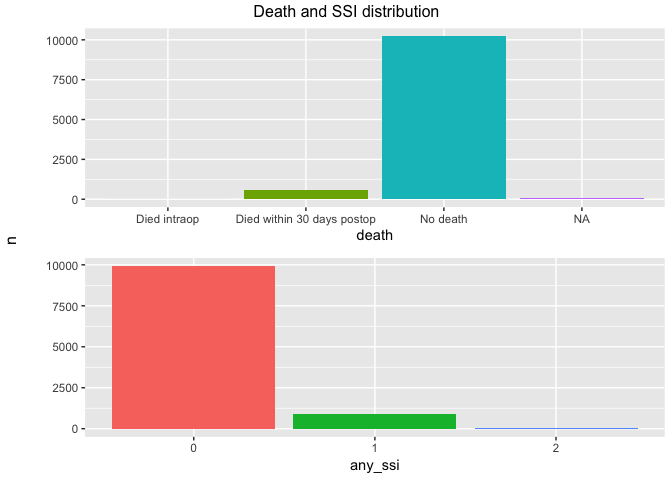
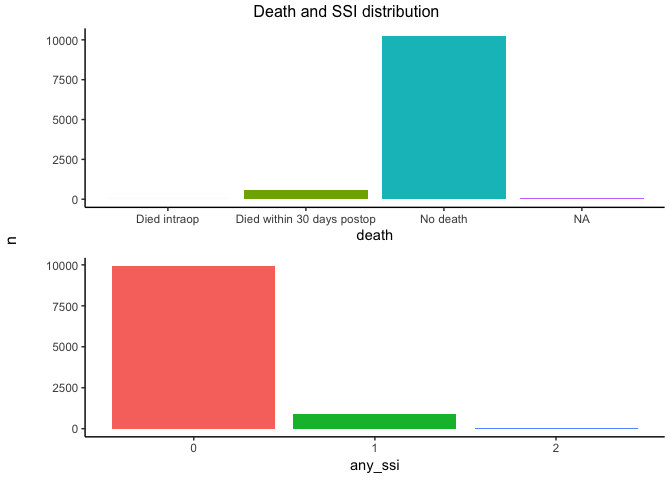
heatmaps

diff --git a/tiff_subanalysis.md b/tiff_subanalysis.md
@@ -49,7 +49,7 @@ dist_healthdisease = healthdisease %>%
 
 ggplot(dist_healthdisease, aes(x = condition, y = cases, fill = condition)) +
   geom_bar(stat = "identity") + ggtitle("Pre-operative health conditions") +
-  theme(axis.text.x = element_text(angle = 40, hjust = 1), legend.position = "none")
+  theme_classic() + theme(axis.text.x = element_text(angle = 40, hjust = 1), legend.position="none")
 ```
 
 ![](tiff_subanalysis_files/figure-gfm/unnamed-chunk-2-1.png)<!-- -->
@@ -61,16 +61,14 @@ deathsum = healthdisease %>% group_by(death) %>% summarize(n = n()) %>%
          death = factor(death, levels = c("Died intraop", 
                                           "Died within 30 days postop", "No death", "NA")))
   
-deathplot = ggplot(deathsum, aes(x = death, y = n, fill = death)) + geom_bar(stat = "identity") +
-  theme(legend.position = "none") + labs(y = "") 
+deathplot = ggplot(deathsum, aes(x = death, y = n, fill = death)) + geom_bar(stat = "identity") + guides(fill = FALSE) + labs(y = "") + theme_classic() 
 ```
 
 ``` r
 SSIsum = healthdisease %>% group_by(any_ssi) %>% summarize(n = n()) %>% 
   mutate(any_ssi = as.factor(any_ssi))
 
-SSIplot = ggplot(SSIsum, aes(x = any_ssi, y = n, fill = any_ssi)) + geom_bar(stat = "identity") + 
-  theme(legend.position = "none") + labs(y = "") 
+SSIplot = ggplot(SSIsum, aes(x = any_ssi, y = n, fill = any_ssi)) + geom_bar(stat = "identity") + guides(fill = FALSE) + labs(y = "") + theme_classic() 
 ```
 
 ``` r
@@ -79,4 +77,38 @@ grid.arrange(deathplot, SSIplot, top = "Death and SSI distribution", left = "n")
 
 ![](tiff_subanalysis_files/figure-gfm/unnamed-chunk-5-1.png)<!-- -->
 
-Number of prior conditions associated with surgical approach
+### SSI level and health condition association
+
+``` r
+heatplot1 = healthdisease %>% 
+  select(-postop_ssi_super, -postop_ssi_deep, -postop_ssi_organspace, -death,
+         -surgical_approach) %>% 
+  na.omit() %>% 
+  gather(condition, score, -any_ssi) %>% 
+  group_by(any_ssi, condition) %>% 
+  summarise(score = sum(score))
+
+ggplot(heatplot1, mapping = aes(x = any_ssi, y = condition, fill = score)) + 
+  geom_tile() + scale_fill_gradient2('cases', low = "blue", mid = "white", 
+                                     high = "red", midpoint = 0) + theme_classic() 
+```
+
+![](tiff_subanalysis_files/figure-gfm/unnamed-chunk-6-1.png)<!-- -->
+
+### Death and health condition association
+
+``` r
+heatplot2 = healthdisease %>% 
+  select(-postop_ssi_super, -postop_ssi_deep, -postop_ssi_organspace, 
+         -any_ssi, -surgical_approach) %>%
+  mutate(death = recode(death, `1` = "Died intraop", `2` = "Died within 30 days postop", 
+                   `3` = "No death")) %>% na.omit() %>% 
+  gather(condition, score, -death) %>% group_by(death, condition) %>% 
+  summarise(score = sum(score)) 
+
+ggplot(heatplot2, mapping = aes(x = death, y = condition, fill = score)) + 
+  geom_tile() + scale_fill_gradient2('cases', low = "blue", mid = "white",
+                                     high = "red", midpoint = 0) + theme_classic() 
+```
+
+![](tiff_subanalysis_files/figure-gfm/unnamed-chunk-7-1.png)<!-- -->
